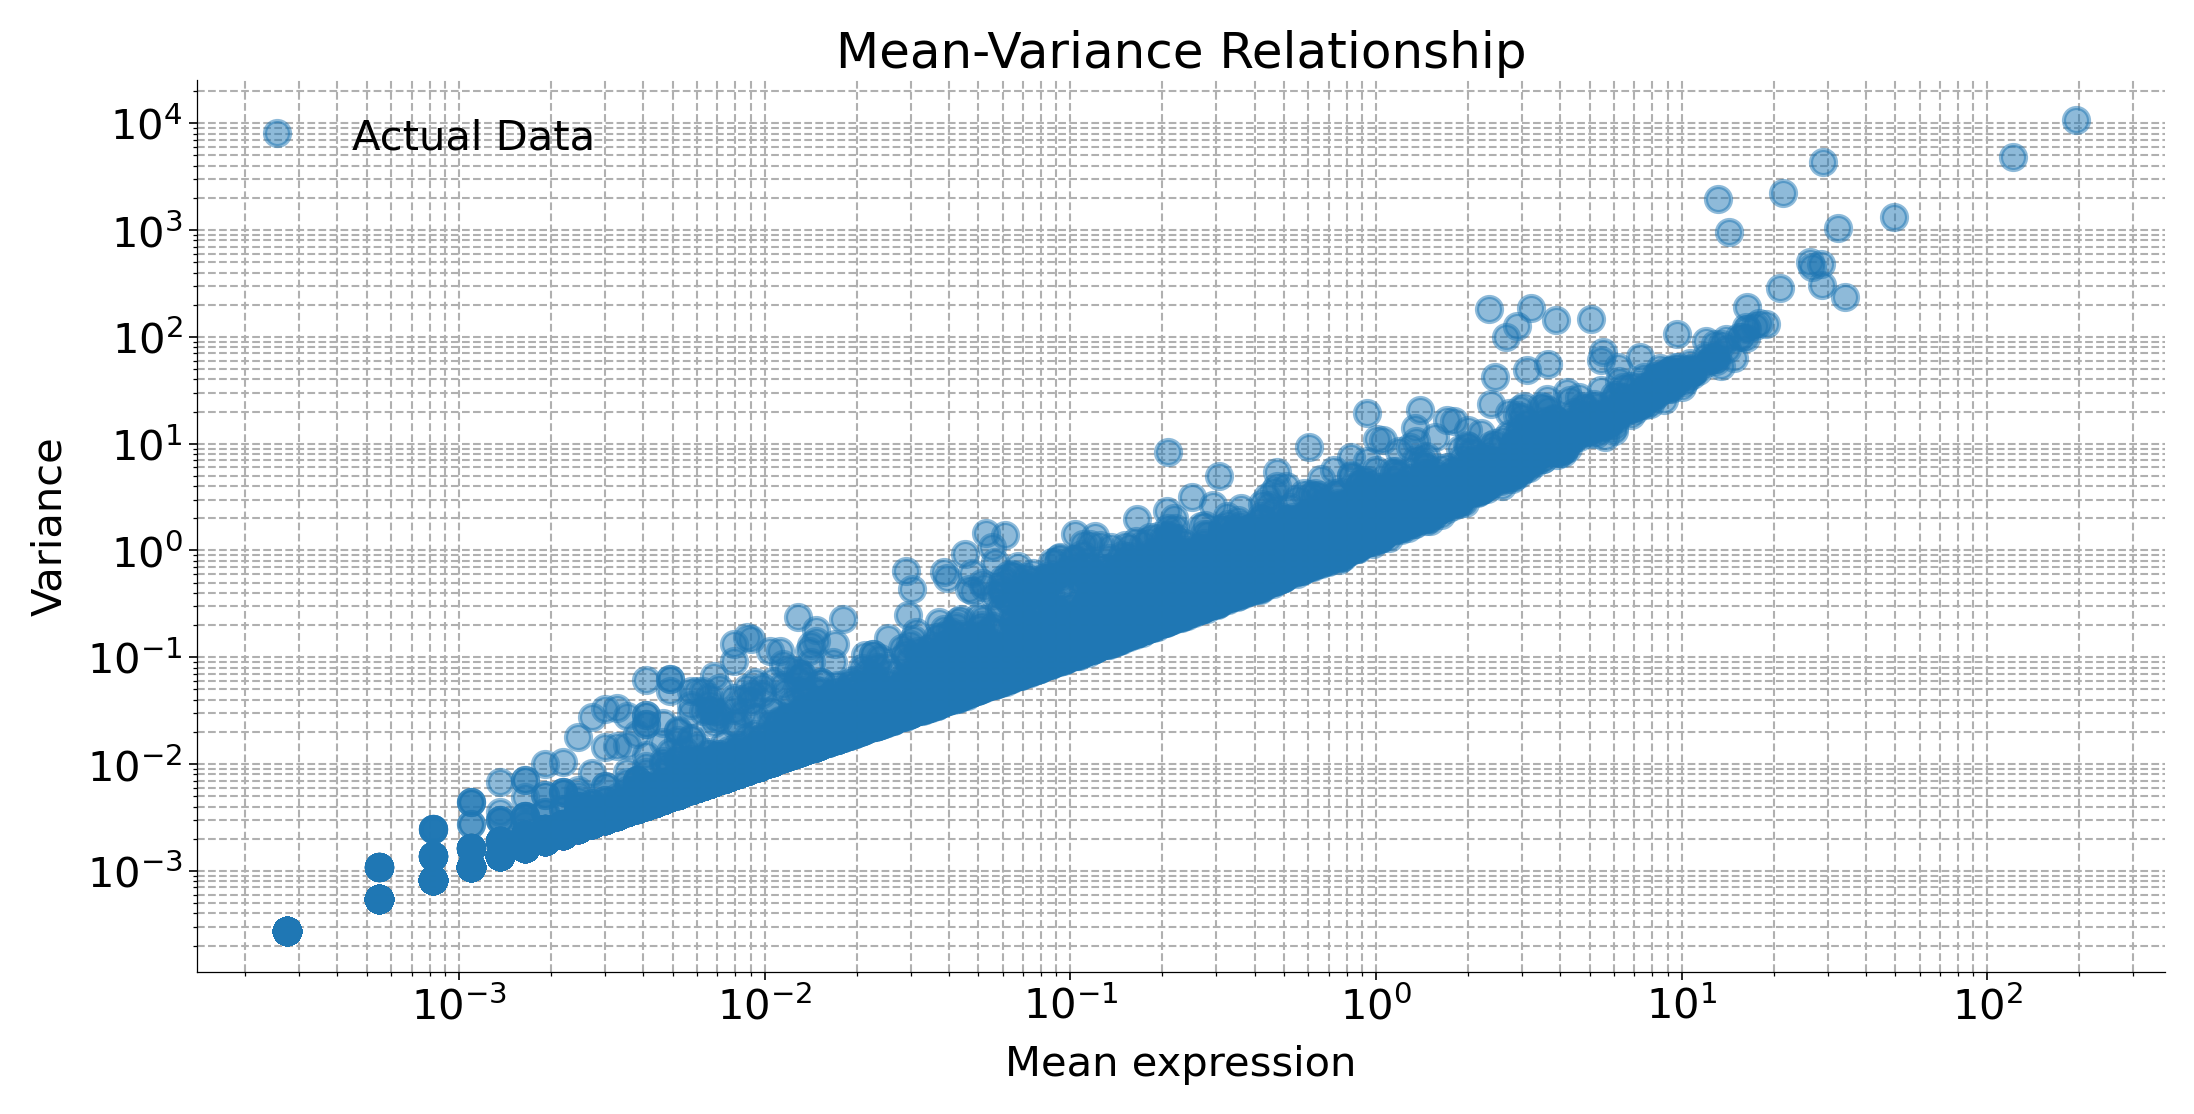
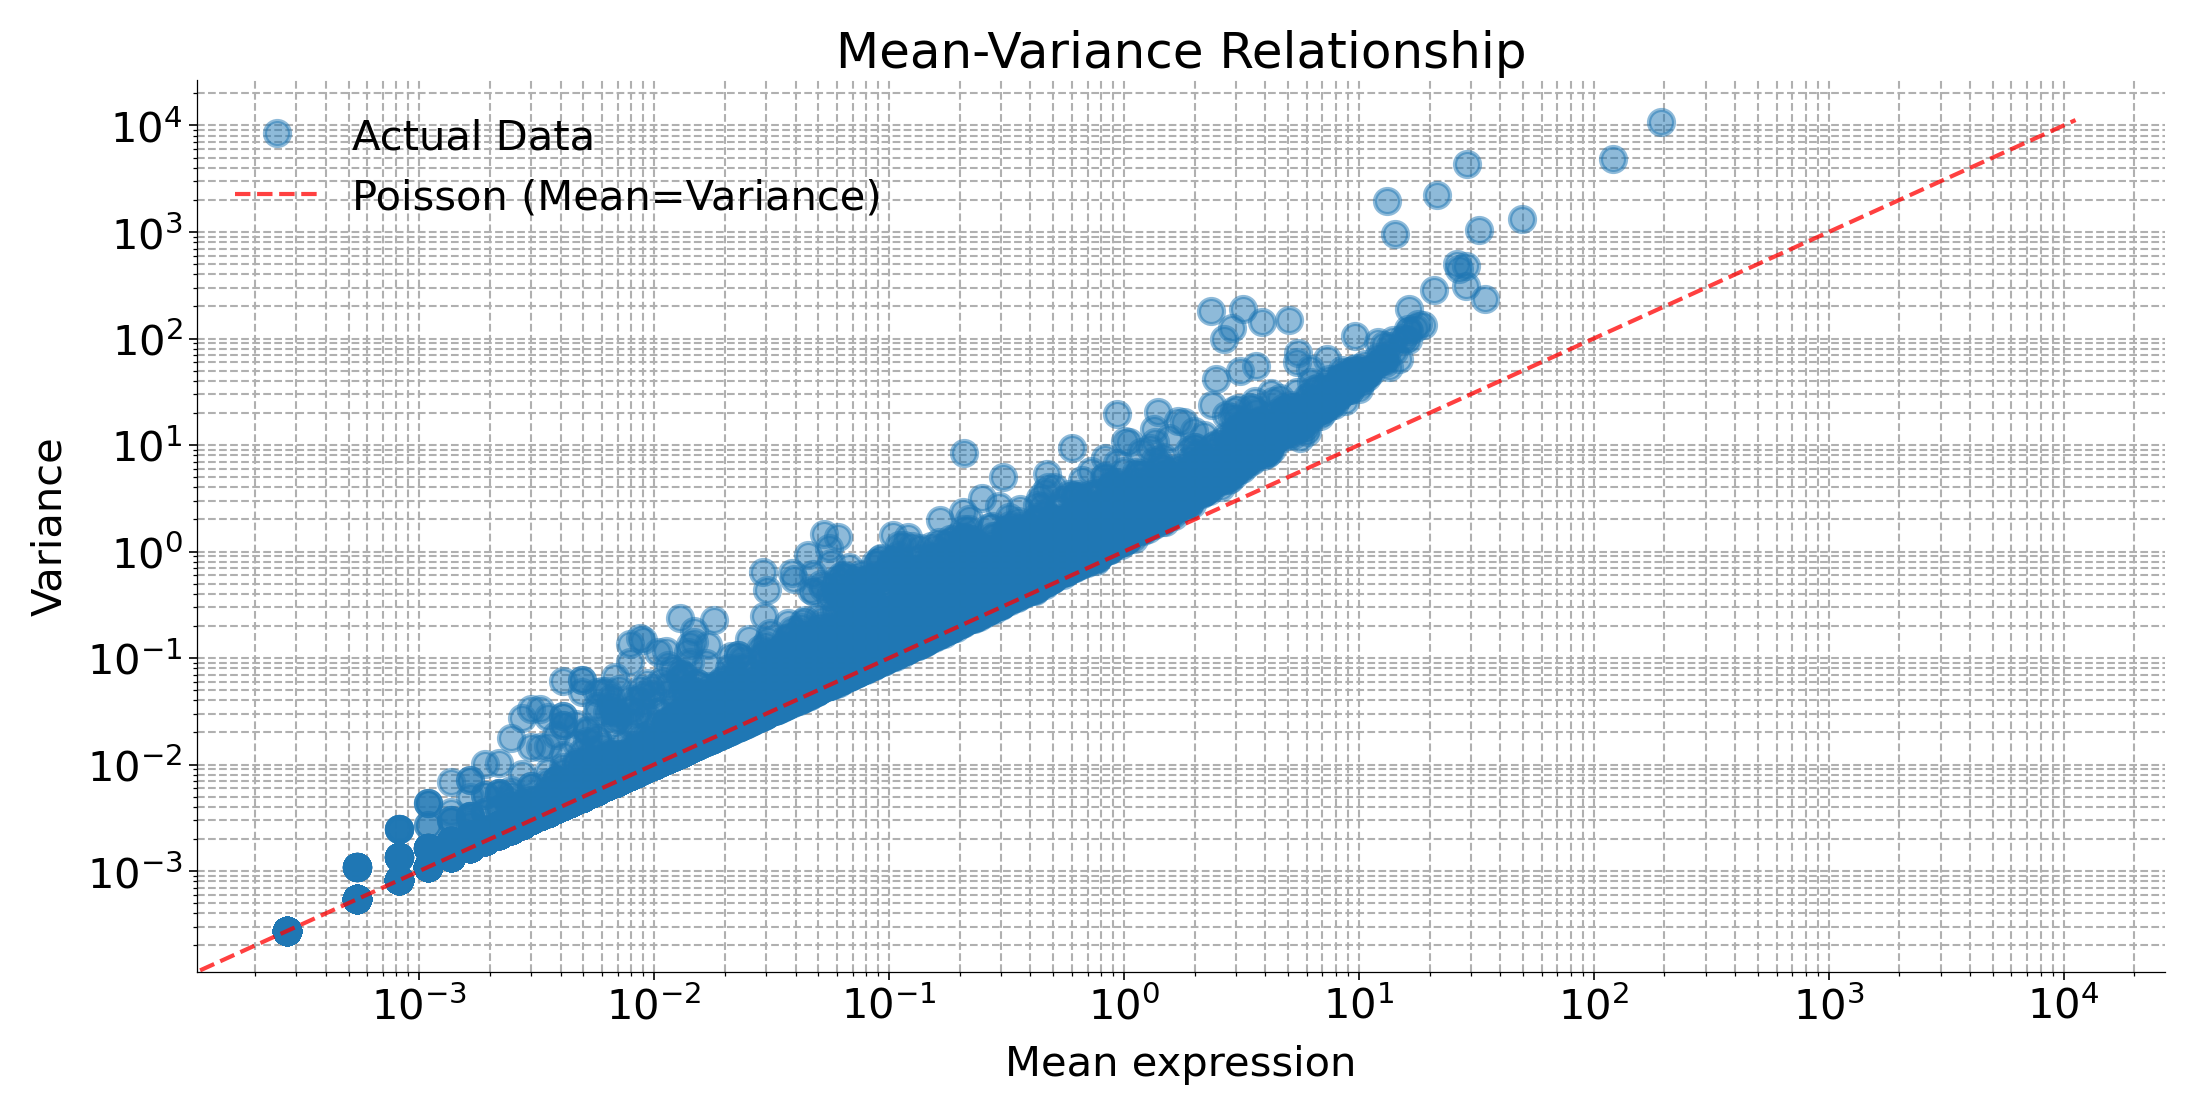
basic stuff.

Changed region(s): [[0.062, 0.061, 0.9918, 0.9156], [0.8678, 0.7935, 0.9608, 0.9156], [0.6819, 0.7935, 0.7748, 0.9156]]

diff --git a/notebooks/lab7.py b/notebooks/lab7.py
@@ -238,6 +238,13 @@ plt.show()
 # _(2.5 pts)_
 variance = np.var(counts, axis=0)
 plt.plot(mean_expression, variance, 'o', alpha=0.5, label='Actual Data')
+lims = [
+    np.min([plt.xlim(), plt.ylim()]),  # find the min of the axes
+    np.max([plt.xlim(), plt.ylim()]),  # find the max of the axes
+]
+# Plot the y=x line
+plt.plot(lims, lims, 'r--', alpha=0.75, label='Poisson (Mean=Variance)')
+
 plt.xscale('log')
 plt.yscale('log')
 plt.xlabel('Mean expression')
@@ -250,6 +257,7 @@ plt.show()
 
 # unscaled
 plt.plot(mean_expression, variance, 'o', alpha=0.5, label='Actual Data')
+plt.plot(lims, lims, 'r--', alpha=0.75, label='Poisson (Mean=Variance)')
 plt.xlabel('Mean expression')
 plt.ylabel('Variance')
 plt.title('Mean-Variance Relationship (Unscaled)')
@@ -261,8 +269,6 @@ plt.show()
 # -------------------------------------------------------------------
 # Compute the variance of the expression counts of each gene - (0.5 pt)
 # -------------------------------------------------------------------
-variance_of_expression = np.var(counts, axis=1)
-print("Variance of expression for each gene:", variance_of_expression)
 # %%
 # -------------------------------------------------------------
 # Plot the mean-variance relationship on a log-log plot (1 pt)
@@ -317,9 +323,16 @@ plt.savefig("../images/lab7-mean_vs_fano.png", dpi=300, bbox_inches='tight')
 plt.show()
 # %% [markdown]
 # _Explanation (1 pt)_
-#  The red dashed line at Fano factor = 1 shows what you would expect if the gene counts followed a Poisson distribution (where variance = mean).
-# Your "Actual Data" points show that for genes with very low mean expression (on the far left), the Fano factor is close to 1.
-# However, as the mean expression increases, the Fano factor for most genes rises significantly above 1. This means the variance is much larger than the mean.
+#
+#  The red dashed line at Fano factor = 1 shows what you would 
+# expect if the gene counts followed a Poisson distribution 
+# (where variance = mean).
+#
+# Your "Actual Data" points show that for genes with very low 
+# mean expression (on the far left), the Fano factor is close to 1.
+# However, as the mean expression increases, 
+# the Fano factor for most genes rises significantly above 1. 
+# This means the variance is much larger than the mean.
 
 # %% [markdown]
 # ### 1.4. Histogram of sequencing depths
